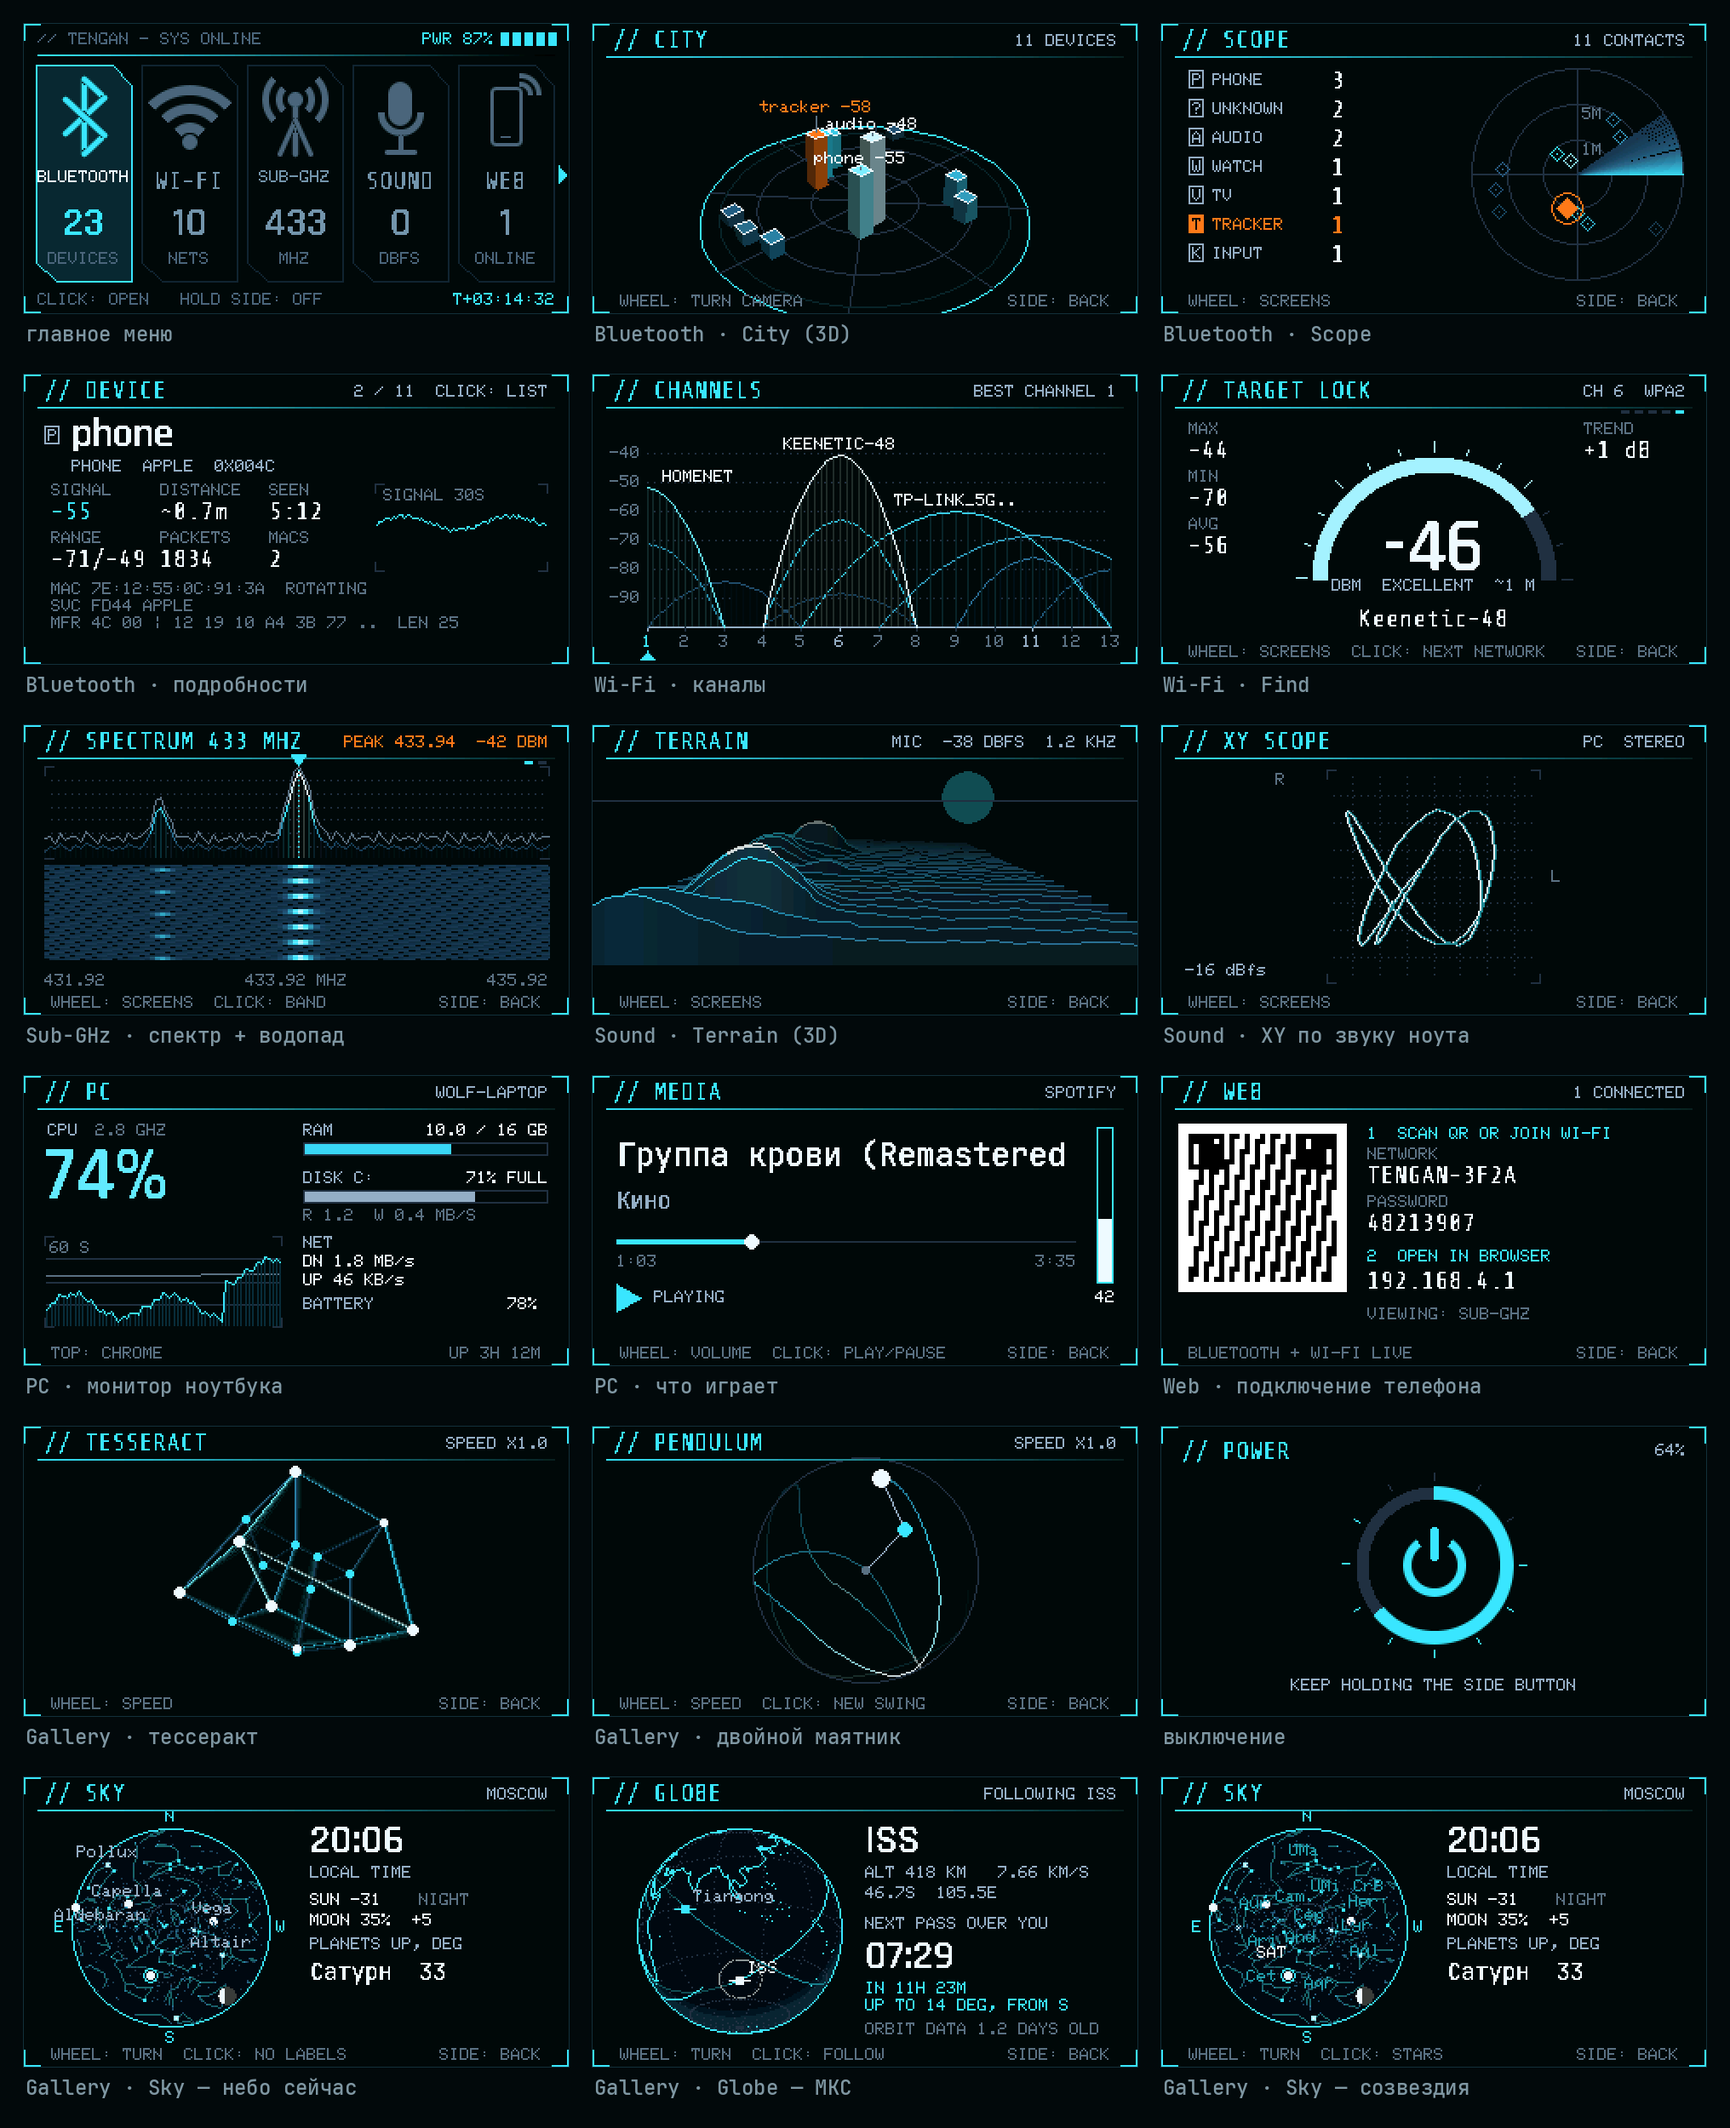
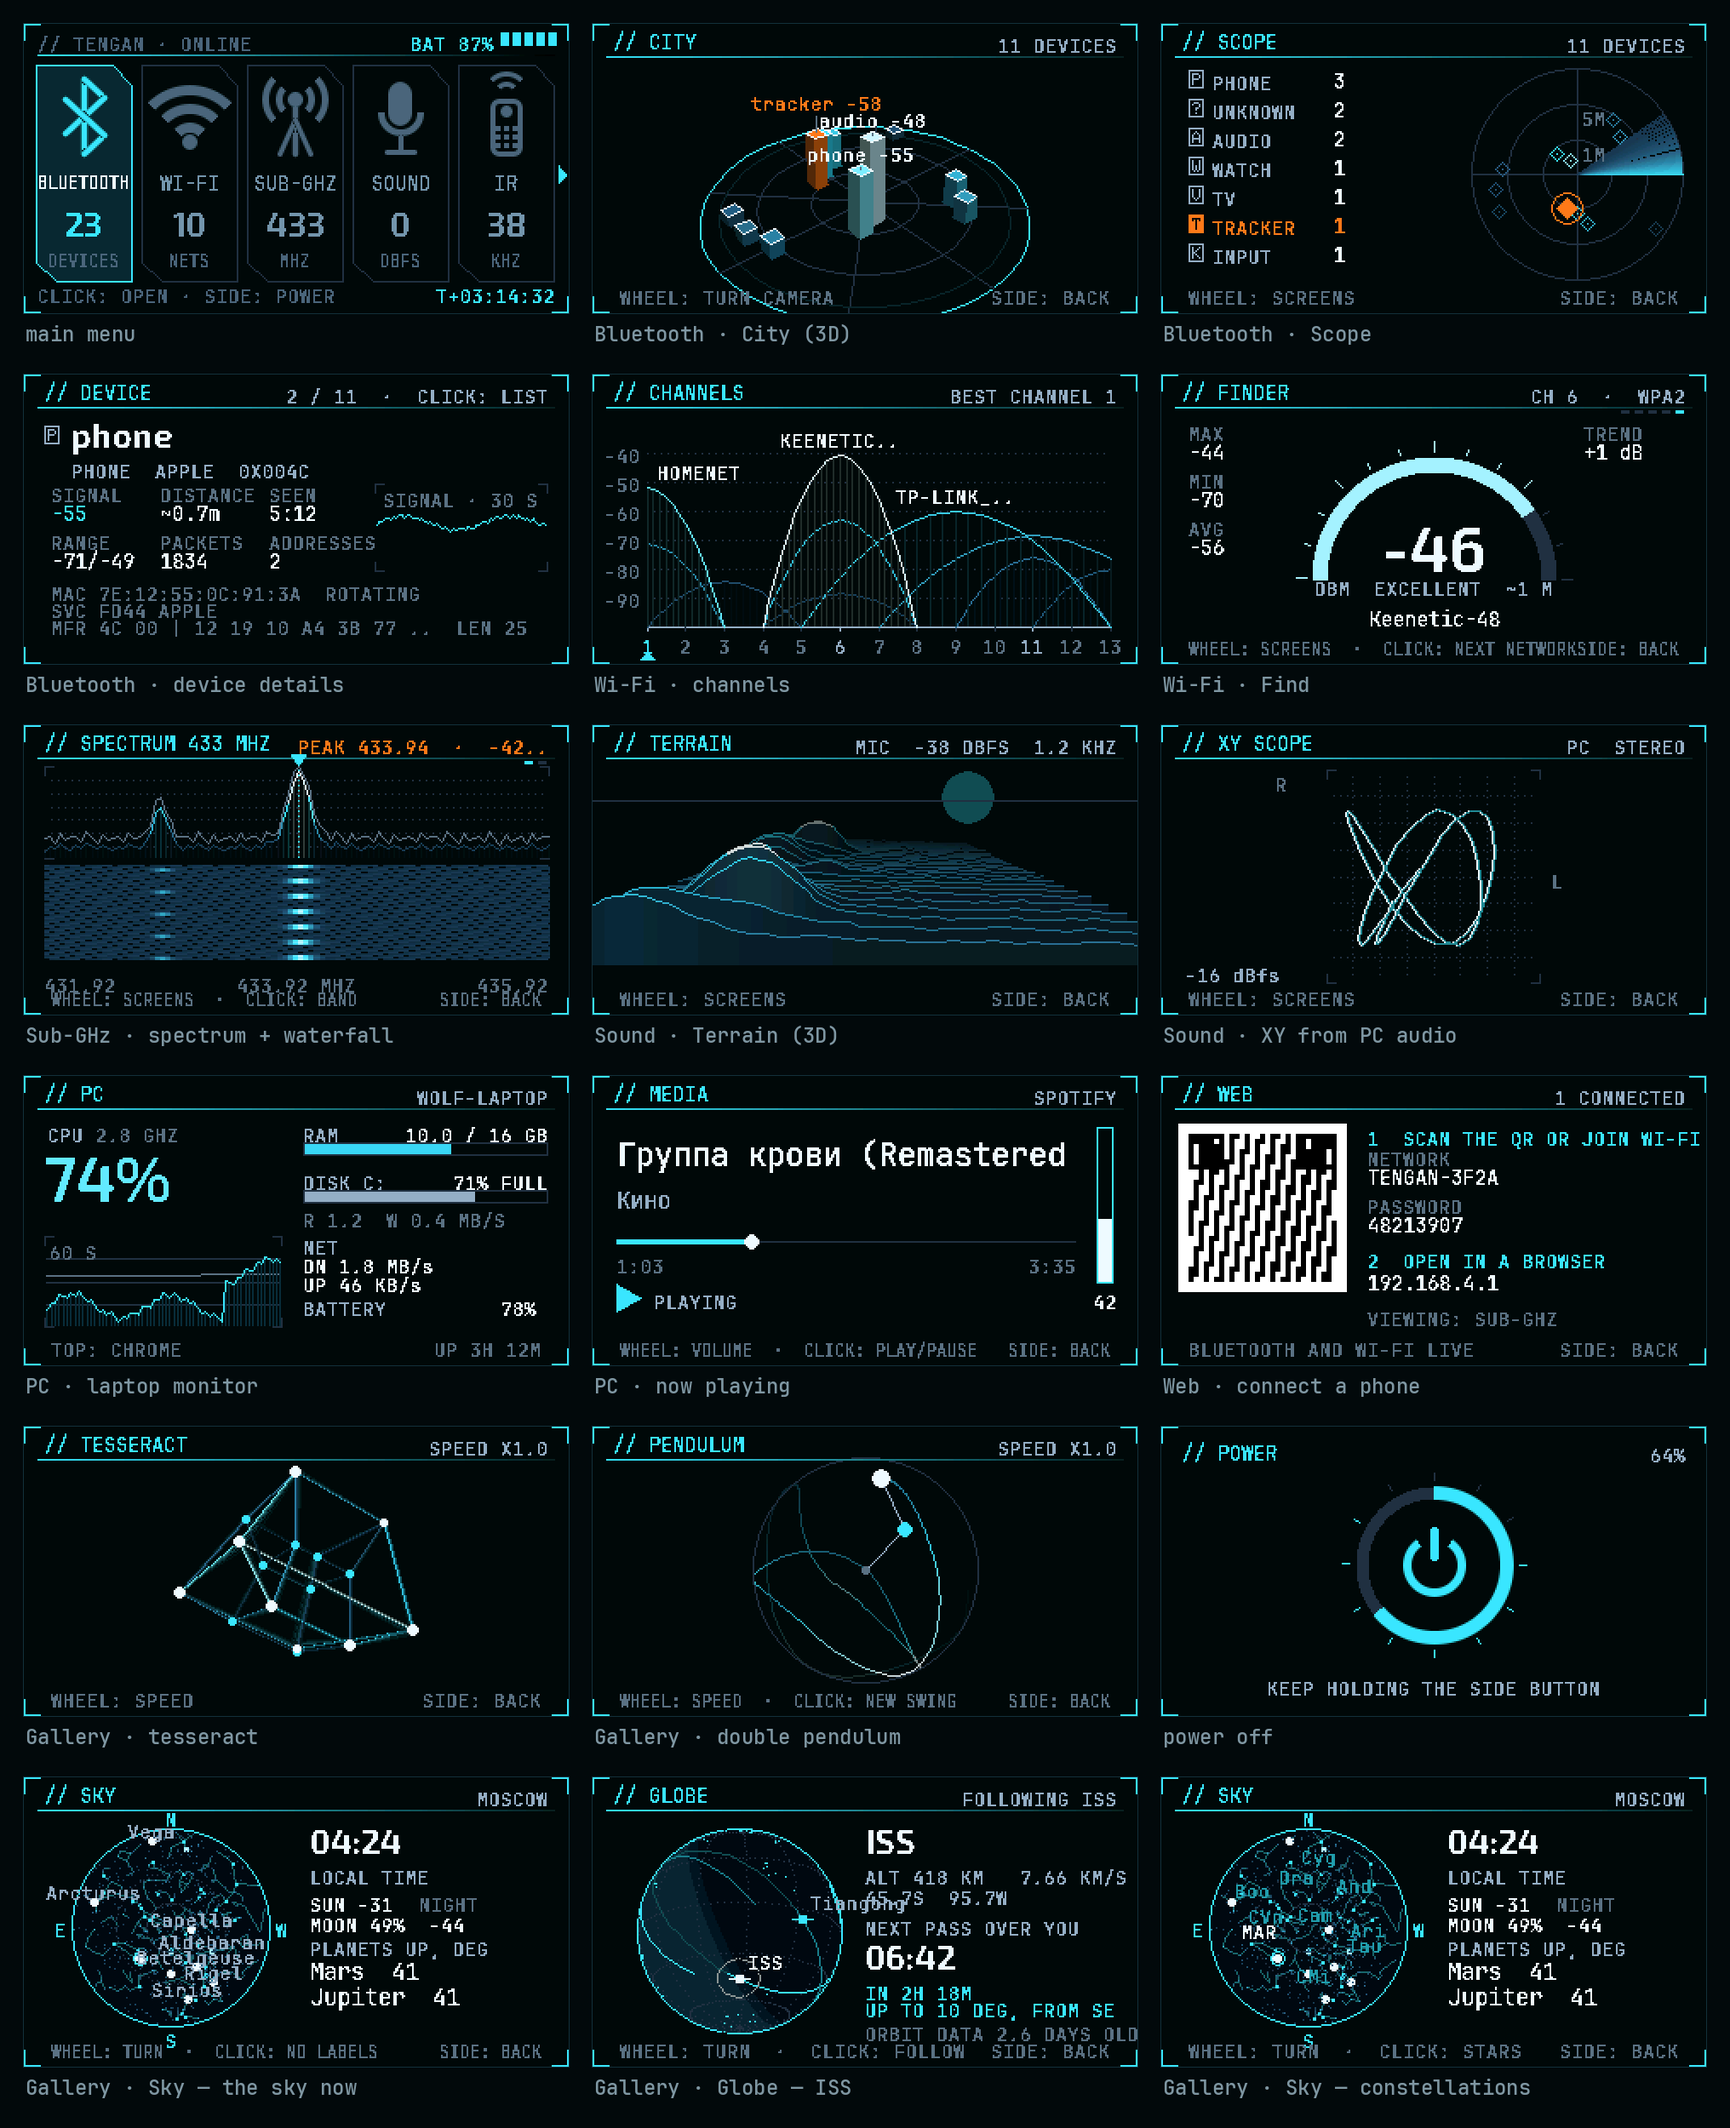
README images: stick screens and GIFs re-rendered from the simulator with the 2.0 fonts; galleries in EN/RU and DENKO/KURENAI
Claude-Session: https://claude.ai/code/session_013wv8J93xJabHsynA6Ng8Jo

diff --git a/tools/make_docs.py b/tools/make_docs.py
@@ -2,8 +2,9 @@
 """Картинки для README (docs/): гифки и галерея — из кадров симулятора.
 Экран палки — пиксели, поэтому увеличиваем ровно вдвое «по пикселю» (NEAREST): чётко, без мыла.
 
-    SIM_ANIM=1 bash tools/sim/build.sh && python3 tools/make_docs.py              # тема DENKO
-    SIM_THEME=1 bash tools/sim/build.sh && python3 tools/make_docs.py sumi       # галерея SUMI
+    SIM_ANIM=1 bash tools/sim/build.sh && python3 tools/make_docs.py              # тема DENKO: гифки + галерея (EN)
+    SIM_LANG=ru bash tools/sim/build.sh && python3 tools/make_docs.py ru          # галерея на русском
+    SIM_THEME=kurenai bash tools/sim/build.sh && python3 tools/make_docs.py kurenai   # галерея KURENAI (+ ru)
 """
 import sys
 import glob, os
@@ -60,18 +61,29 @@ def gallery(items, name, cols=3, scale=1, bg=BG, line=(18, 48, 58), ink=(127, 15
     print("%-22s %dx%d  %4d KB" % (name, W, H, os.path.getsize(os.path.join(DOCS, name)) // 1024))
 
 
-SCREENS = [("01_menu", "главное меню"), ("13_ble_city", "Bluetooth · City (3D)"), ("12_ble_scope", "Bluetooth · Scope"),
-           ("16_ble_detail", "Bluetooth · подробности"), ("22_wifi_channels", "Wi-Fi · каналы"), ("25_wifi_find", "Wi-Fi · Find"),
-           ("30_subghz_spectrum", "Sub-GHz · спектр + водопад"), ("40b_sound_terrain", "Sound · Terrain (3D)"), ("45b_sound_xy_pc", "Sound · XY по звуку ноута"),
-           ("71_pc_overview", "PC · монитор ноутбука"), ("73_pc_media", "PC · что играет"), ("60_web", "Web · подключение телефона"),
-           ("50_gallery_tesseract", "Gallery · тессеракт"), ("53_gallery_pendulum", "Gallery · двойной маятник"), ("08_power_hold", "выключение"),
-           ("54b_gallery_sky_stars", "Gallery · Sky — небо сейчас"), ("55_gallery_globe", "Gallery · Globe — МКС"), ("54_gallery_sky", "Gallery · Sky — созвездия")]
+# (кадр симулятора, подпись EN, подпись RU)
+SCREENS = [("01_menu", "main menu", "главное меню"), ("13_ble_city", "Bluetooth · City (3D)", "Bluetooth · Город (3D)"),
+           ("12_ble_scope", "Bluetooth · Scope", "Bluetooth · Радар"), ("16_ble_detail", "Bluetooth · device details", "Bluetooth · подробности"),
+           ("22_wifi_channels", "Wi-Fi · channels", "Wi-Fi · каналы"), ("25_wifi_find", "Wi-Fi · Find", "Wi-Fi · Поиск"),
+           ("30_subghz_spectrum", "Sub-GHz · spectrum + waterfall", "Sub-GHz · спектр + водопад"),
+           ("40b_sound_terrain", "Sound · Terrain (3D)", "Звук · Рельеф (3D)"), ("45b_sound_xy_pc", "Sound · XY from PC audio", "Звук · XY по звуку ноута"),
+           ("71_pc_overview", "PC · laptop monitor", "ПК · монитор ноутбука"), ("73_pc_media", "PC · now playing", "ПК · что играет"),
+           ("60_web", "Web · connect a phone", "Web · подключение телефона"), ("50_gallery_tesseract", "Gallery · tesseract", "Галерея · тессеракт"),
+           ("53_gallery_pendulum", "Gallery · double pendulum", "Галерея · двойной маятник"), ("08_power_hold", "power off", "выключение"),
+           ("54b_gallery_sky_stars", "Gallery · Sky — the sky now", "Галерея · Небо сейчас"), ("55_gallery_globe", "Gallery · Globe — ISS", "Галерея · Глобус — МКС"),
+           ("54_gallery_sky", "Gallery · Sky — constellations", "Галерея · Небо — созвездия")]
 
-if "sumi" in sys.argv:                                 # та же галерея в теме SUMI (бумага и тушь)
-    gallery(SCREENS, "screens_sumi.png", bg=(236, 228, 212), line=(201, 191, 174), ink=(74, 67, 59))
+# python3 tools/make_docs.py [kurenai] [ru] — галерея в теме KURENAI и/или с подписями (и экранами) на русском;
+# без аргументов — ещё и гифки. Экраны на русском: SIM_LANG=ru bash tools/sim/build.sh.
+RU = "ru" in sys.argv
+items = [(f, ru if RU else en) for f, en, ru in SCREENS]
+name = "screens" + ("_kurenai" if "kurenai" in sys.argv else "") + ("_ru" if RU else "") + ".png"
+if "kurenai" in sys.argv:
+    gallery(items, name, bg=(10, 4, 4), line=(70, 22, 22), ink=(170, 140, 130))
 else:
-    gif("anim_boot", "boot.gif", 40, hold_last=12)
-    gif("anim_city", "city.gif", 50)
-    gif("anim_tess", "tesseract.gif", 40)
-    gif("anim_off", "shutdown.gif", 40, hold_last=6)
-    gallery(SCREENS, "screens.png")
+    if not RU:
+        gif("anim_boot", "boot.gif", 40, hold_last=12)
+        gif("anim_city", "city.gif", 50)
+        gif("anim_tess", "tesseract.gif", 40)
+        gif("anim_off", "shutdown.gif", 40, hold_last=6)
+    gallery(items, name)
